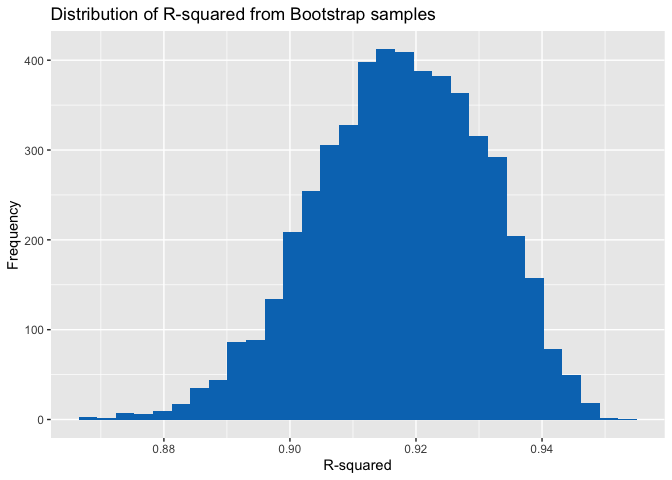
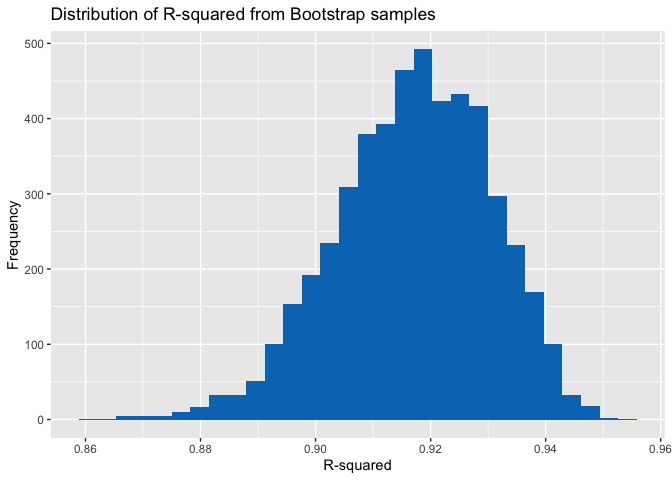
Problem 3

diff --git a/p8105_hw6_rl3411.md b/p8105_hw6_rl3411.md
@@ -75,7 +75,7 @@ boot_straps =
   unnest(strap_sample)
 ```
 
-    ## Warning: There were 3414 warnings in `mutate()`.
+    ## Warning: There were 3308 warnings in `mutate()`.
     ## The first warning was:
     ## ℹ In argument: `logb1b2 = log(tmin * prcp)`.
     ## Caused by warning:
@@ -83,7 +83,7 @@ boot_straps =
     ## ℹ In argument: `logb1b2 = log(tmin * prcp)`.
     ## Caused by warning in `log()`:
     ## ! NaNs produced
-    ## ℹ Run `dplyr::last_dplyr_warnings()` to see the 3413 remaining warnings.
+    ## ℹ Run `dplyr::last_dplyr_warnings()` to see the 3307 remaining warnings.
 
 ``` r
 boot_straps |> 
@@ -133,5 +133,165 @@ boot_straps |>
 
 | variable  |   lower_CI |   upper_CI |
 |:----------|-----------:|-----------:|
-| logb1b2   | -9.1289296 | -4.5779903 |
-| r.squared |  0.8901505 |  0.9408868 |
+| logb1b2   | -9.1600521 | -4.5753240 |
+| r.squared |  0.8892241 |  0.9402649 |
+
+# Problem 3
+
+``` r
+bw_df = read_csv("birthweight.csv") |> 
+  mutate(
+    babysex = as.factor(case_match(
+      babysex,
+      1 ~ "male",
+      2 ~ "female")),
+    frace = as.factor(case_match(
+      frace,
+      1 ~ "white", 
+      2 ~ "black", 
+      3 ~ "asian", 
+      4 ~ "puerto rican", 
+      8 ~ "other", 
+      9 ~ "unknown")),
+    mrace = as.factor(case_match(
+      mrace,
+      1 ~ "white", 
+      2 ~ "black", 
+      3 ~ "asian", 
+      4 ~ "puerto rican", 
+      8 ~ "other")),
+    malform = as.factor(case_match(
+      malform,
+      0 ~ "absent", 
+      1 ~ "present")))
+```
+
+    ## Rows: 4342 Columns: 20
+    ## ── Column specification ────────────────────────────────────────────────────────
+    ## Delimiter: ","
+    ## dbl (20): babysex, bhead, blength, bwt, delwt, fincome, frace, gaweeks, malf...
+    ## 
+    ## ℹ Use `spec()` to retrieve the full column specification for this data.
+    ## ℹ Specify the column types or set `show_col_types = FALSE` to quiet this message.
+
+``` r
+full_model = lm(bwt ~ ., data = bw_df)
+step_model = MASS::stepAIC(full_model, direction = "both", trace = F)
+summary(step_model)
+```
+
+    ## 
+    ## Call:
+    ## lm(formula = bwt ~ babysex + bhead + blength + delwt + fincome + 
+    ##     gaweeks + mheight + mrace + parity + ppwt + smoken, data = bw_df)
+    ## 
+    ## Residuals:
+    ##      Min       1Q   Median       3Q      Max 
+    ## -1097.18  -185.52    -3.39   174.14  2353.44 
+    ## 
+    ## Coefficients:
+    ##                     Estimate Std. Error t value Pr(>|t|)    
+    ## (Intercept)       -6145.1507   141.9496 -43.291  < 2e-16 ***
+    ## babysexmale         -28.5580     8.4549  -3.378 0.000737 ***
+    ## bhead               130.7770     3.4466  37.944  < 2e-16 ***
+    ## blength              74.9471     2.0190  37.120  < 2e-16 ***
+    ## delwt                 4.1067     0.3921  10.475  < 2e-16 ***
+    ## fincome               0.3180     0.1747   1.820 0.068844 .  
+    ## gaweeks              11.5925     1.4621   7.929 2.79e-15 ***
+    ## mheight               6.5940     1.7849   3.694 0.000223 ***
+    ## mraceblack          -63.9057    42.3663  -1.508 0.131523    
+    ## mracepuerto rican   -25.7914    45.3502  -0.569 0.569578    
+    ## mracewhite           74.8868    42.3146   1.770 0.076837 .  
+    ## parity               96.3047    40.3362   2.388 0.017004 *  
+    ## ppwt                 -2.6756     0.4274  -6.261 4.20e-10 ***
+    ## smoken               -4.8434     0.5856  -8.271  < 2e-16 ***
+    ## ---
+    ## Signif. codes:  0 '***' 0.001 '**' 0.01 '*' 0.05 '.' 0.1 ' ' 1
+    ## 
+    ## Residual standard error: 272.3 on 4328 degrees of freedom
+    ## Multiple R-squared:  0.7181, Adjusted R-squared:  0.7173 
+    ## F-statistic: 848.1 on 13 and 4328 DF,  p-value: < 2.2e-16
+
+``` r
+step_model |> 
+  broom::tidy() |> 
+  knitr::kable(digits = 3)
+```
+
+| term              |  estimate | std.error | statistic | p.value |
+|:------------------|----------:|----------:|----------:|--------:|
+| (Intercept)       | -6145.151 |   141.950 |   -43.291 |   0.000 |
+| babysexmale       |   -28.558 |     8.455 |    -3.378 |   0.001 |
+| bhead             |   130.777 |     3.447 |    37.944 |   0.000 |
+| blength           |    74.947 |     2.019 |    37.120 |   0.000 |
+| delwt             |     4.107 |     0.392 |    10.475 |   0.000 |
+| fincome           |     0.318 |     0.175 |     1.820 |   0.069 |
+| gaweeks           |    11.592 |     1.462 |     7.929 |   0.000 |
+| mheight           |     6.594 |     1.785 |     3.694 |   0.000 |
+| mraceblack        |   -63.906 |    42.366 |    -1.508 |   0.132 |
+| mracepuerto rican |   -25.791 |    45.350 |    -0.569 |   0.570 |
+| mracewhite        |    74.887 |    42.315 |     1.770 |   0.077 |
+| parity            |    96.305 |    40.336 |     2.388 |   0.017 |
+| ppwt              |    -2.676 |     0.427 |    -6.261 |   0.000 |
+| smoken            |    -4.843 |     0.586 |    -8.271 |   0.000 |
+
+``` r
+step_model |> 
+  broom::glance() |> 
+  knitr::kable(digits = 3)
+```
+
+| r.squared | adj.r.squared |   sigma | statistic | p.value |  df |    logLik |      AIC |      BIC |  deviance | df.residual | nobs |
+|----------:|--------------:|--------:|----------:|--------:|----:|----------:|---------:|---------:|----------:|------------:|-----:|
+|     0.718 |         0.717 | 272.333 |   848.073 |       0 |  13 | -30499.72 | 61029.44 | 61125.08 | 320986412 |        4328 | 4342 |
+
+``` r
+bw_df |> 
+  add_residuals(step_model) |> 
+  add_predictions(step_model) |> 
+  ggplot(aes(x = pred, y = resid)) + 
+  geom_point() +
+  geom_smooth() +
+  labs(title = "Model residuals vs. fitted values",
+       x = "Predicted values",
+       y = "Residuals")
+```
+
+    ## `geom_smooth()` using method = 'gam' and formula = 'y ~ s(x, bs = "cs")'
+
+![](p8105_hw6_rl3411_files/figure-gfm/unnamed-chunk-8-1.png)<!-- -->
+
+``` r
+model2 = lm(bwt ~ blength + gaweeks, data = bw_df)
+model3 = lm(bwt ~ bhead*blength*babysex, data = bw_df)
+
+cv_df = 
+  bw_df |>
+  crossv_mc(1000) |> 
+  mutate(
+    train = map(train, as_tibble),
+    test = map(test, as_tibble),
+    stepwise_model = map(train, \(df) step_model),
+    main_eff_model = map(train, \(df) model2),
+    eff_mod_model = map(train, \(df) model3)
+  ) |> 
+  mutate(
+    rmse_stepwise = map2_dbl(stepwise_model, test, \(mod, df) rmse(model = mod, data = df)),
+    rmse_main = map2_dbl(main_eff_model, test, \(mod, df) rmse(model = mod, data = df)),
+    rmse_eff_mod = map2_dbl(eff_mod_model, test,\(mod, df) rmse(model = mod, data = df))
+  )
+  
+cv_df |> 
+  select(starts_with("rmse")) |> 
+  pivot_longer(
+    everything(),
+    names_to = "model", 
+    values_to = "rmse",
+    names_prefix = "rmse_") |> 
+  mutate(model = fct_inorder(model)) |> 
+  ggplot(aes(x = model, y = rmse)) + 
+  geom_violin() +
+  labs(title = "Comparison between plots")
+```
+
+![](p8105_hw6_rl3411_files/figure-gfm/unnamed-chunk-9-1.png)<!-- -->
